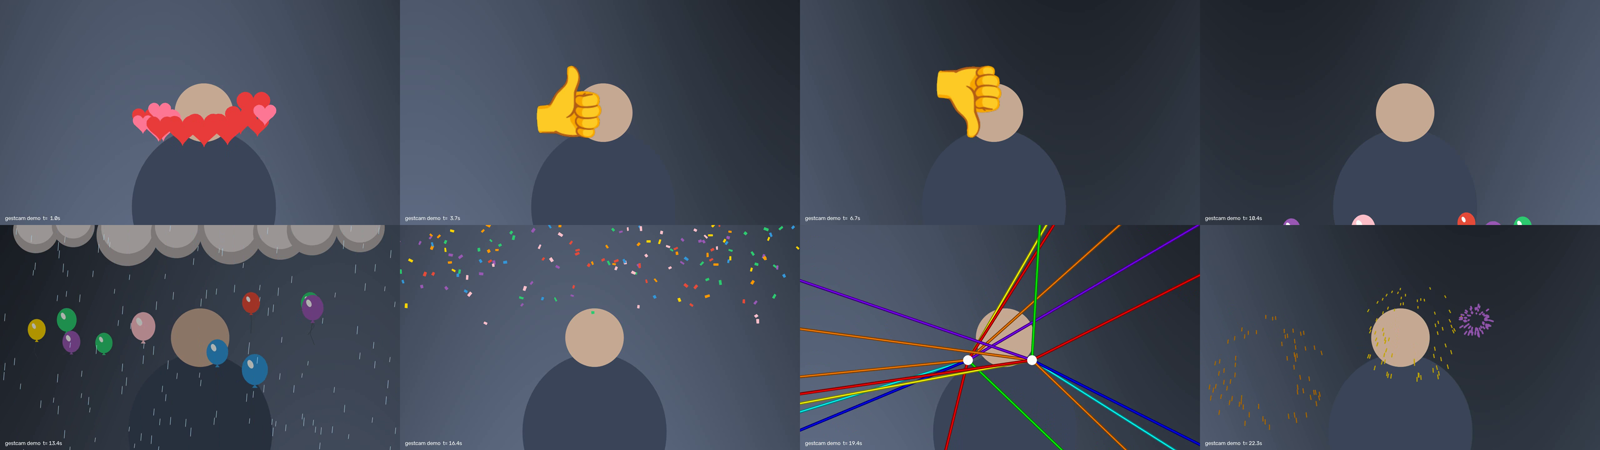
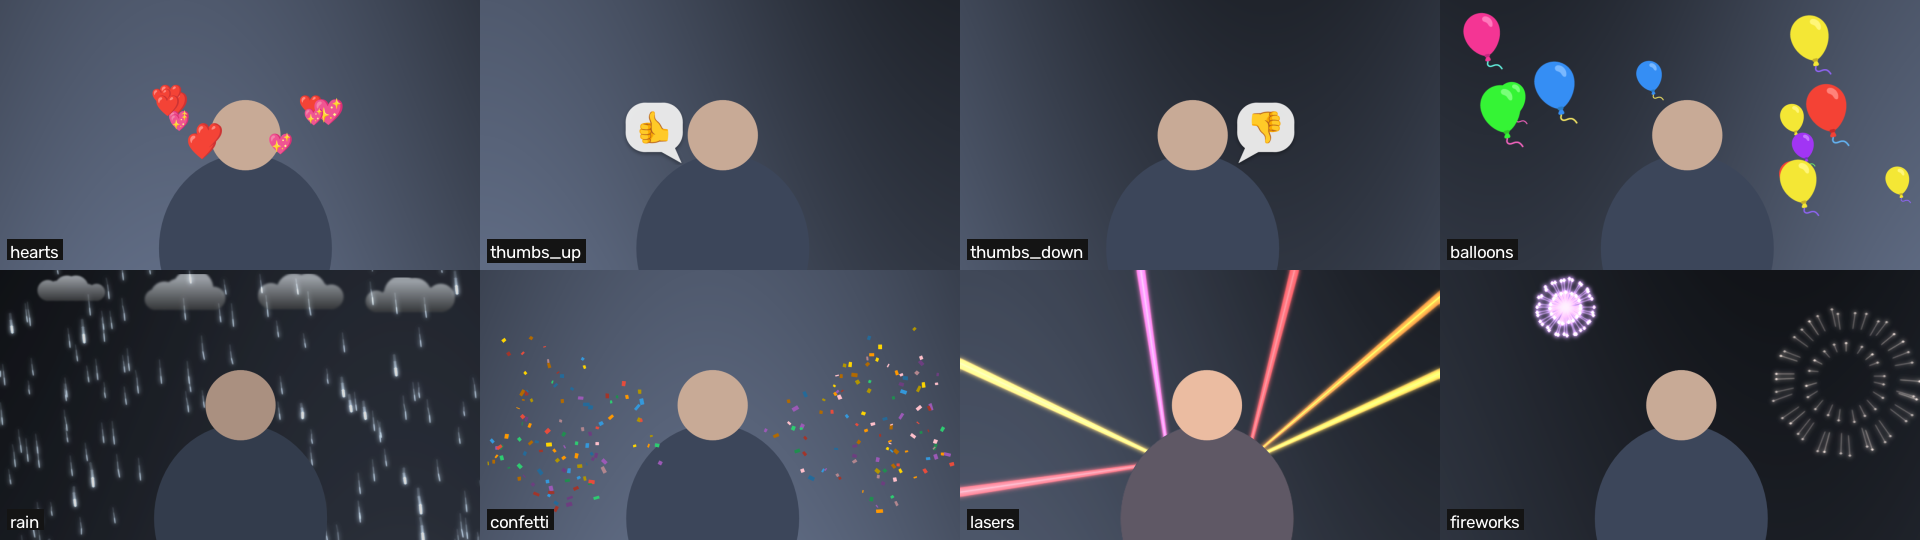
docs: document the rebuild, Discord.dmg finding and new commands
Discord's macOS app contains no gesture code: Reactions are applied by
Apple's AVFoundation camera stack for every app, and Chromium only logs
whether they are enabled. The README/PLAN now record that, the Apple
behaviour we match, the new commands, and a regenerated reactions sheet.

diff --git a/PLAN.md b/PLAN.md
@@ -9,14 +9,14 @@ On macOS, "Reactions" are not a Discord feature. They're an OS-level camera effe
 ```
 webcam ──V4L2 (MJPG)──▶ Capture thread ──newest frame──▶ main loop ──▶ v4l2loopback (/dev/video10, I420)
                                                             │   ▲                      │
-                                          rgb@640w ──▶ MediaPipe thread (LIVE_STREAM)  │
-                                                            │                          ▼
-                                          Observation ──▶ reaction_for() ──▶ ReactionState ──▶ EffectEngine
+                                          rgb@640w ──▶ MediaPipe threads (LIVE_STREAM) │
+                                                       gestures + person mask          ▼
+                     new Observation ──▶ decide(): pick() ──▶ ReactionState ──▶ EffectEngine (back | person | front)
                                                                                                    │
                                                                               Discord / Chromium / OBS / Zoom
 ```
 
-Modules: `streams.py` (capture + sinks) · `recognizer.py` (MediaPipe wrapper + pure gesture rules) · `state.py` (hold/cooldown) · `effects.py` (particles) · `pipeline.py` (loop, demo) · `doctor.py` (preflight) · `cli.py`.
+Modules: `streams.py` (capture + sinks) · `recognizer.py` (MediaPipe wrapper + pure gesture rules) · `segment.py` (person mask) · `state.py` (hold/cooldown) · `effects.py` (layered particles) · `pipeline.py` (loop, eval, demo) · `doctor.py` (preflight) · `cli.py`.
 
 ## Decisions and why
 
@@ -29,7 +29,12 @@ Modules: `streams.py` (capture + sinks) · `recognizer.py` (MediaPipe wrapper + 
 | **LIVE_STREAM mode, newest-result-wins** | Model latency never blocks the frame loop. If inference falls behind, output stays 30 fps and reactions lag ~50 ms, which nobody notices. |
 | **Inference at 640 px wide** | Hand landmarker resizes to 224 internally; feeding 1280 just costs a bigger copy. Landmarks are normalized, so effects still render at full resolution. |
 | **Time-based hold (0.7 s) + cooldown (2.5 s) + release-to-repeat** | Same feel as Apple's "hold and pause". Frame-count debouncing breaks the moment fps changes. |
-| **Opaque OpenCV primitives, ROI alpha only for sprites** | Full-frame float alpha blend ≈ 10–15 ms at 720p. Measured: all 8 effects at once ≈ 10 ms on a 2.1 GHz Xeon; any single effect ≤ 2 ms. |
+| ~~**Opaque OpenCV primitives, ROI alpha only for sprites**~~ → **layered compositing in uint8 cv2** | **Superseded.** The ban was right about numpy float (mask blend 18.9 ms at 720p) and wrong about native uint8 cv2: `addWeighted` 0.5 ms, `blendLinear` mask composite ~2.3 ms in a real frame, half-res blurred glow 0.8–1.8 ms. So effects now have back / front / light passes: back is drawn on a copy and blended *under* the person, front over them, and fades are alpha, never darkening to black. `step()` cost with a mask, mean/p95: single effects 0.4–5.3 / ≤6.1 ms, all 8 at once 8.4 / 10.7 ms (idle machine; command and load not recorded). Under load ~9–15 on 16 cores, `scratchpad/build_effects/perf.py` measured masked step() means of 17–25 ms for single effects and 36.2 / 49.4 ms mean/p95 for all 8, against 4–10 ms unmasked. That is why the segmentation auto-off also watches the loop time of masked frames. |
+| **Per-hand pose = canned label fused with landmark geometry** | The canned top-1 label missed 4 of 6 clear ✌ (None:.96 on a textbook V), and MediaPipe 0.10 returns no runner-up. Geometry (V, horns, thumb tip as the hand's extreme point) votes unless the model is ≥0.7 sure of a *different* named class; horns and heart geometry outrank labels (the model has neither class and called horns "Victory", hearts "Thumb_Down"). 22 Commons photos: 4/20 → 11/20 in IMAGE mode, 0 wrong-reaction fires; landmarks are pinned as `tests/fixtures/photo_hands.json`. |
+| **Pairing by landmark distance + handedness, not a wrist floor** | "Wrists > 1 palm apart" rejected real thumbs held together and still let a duplicate box through. Now: mean distance over all 21 landmarks < 0.3 palm = the same hand twice; Left+Left / Right+Right rejected only when both handedness scores ≥ 0.8 (`--mirror` flips both, so "they differ" survives it); every pair tried closest-first so a third hand can't hide one. Palms > 6 apart don't pair. `ponytail:` one person's spread arms (4.5 palms) and two people side by side (4.4) overlap, so distance can't split people. |
+| **Per-reaction hold accumulators, fed once per observation** | Replaced an incumbent/challenger rule that double-fired 👍 then 👍👍 (thumbs_up, then fireworks 2.5 s later) and let a 50/50 thumbs_up/fireworks flicker always resolve to thumbs_up. Each reaction accrues dt while seen, freezes for `grace_s`, decays at 2·dt. **Promotion**: a seen superset takes max(own, subset's) so fireworks fires 0.7 s after the *first* thumb. **Deferral**: with 2+ hands in frame a subset needs +`defer_s` (0.15 s). **Upgrade**: after a subset fires, its superset may still fire inside the cooldown and the effect engine retires the bubble. Cooldown holds every accumulator at 0, so every fire follows a visible ring. Clocked on `Observation.ts`, once per new observation: per-frame wall-clock feeding made hold length depend on model latency. Fire times identical at 10/30/60 Hz. |
+| **Selfie segmenter for "behind the person"** | Google's `selfie_segmenter.tflite` (Apache-2.0, 250 KB) through the same Tasks API, LIVE_STREAM on its own thread, fed the same 640 px RGB as the gesture model. 4.7–5.4 ms p50 alone; both models together keep gesture p95 under 33 ms (it costs the gesture model ~1.5 ms of p95). The mask is dilated 1.2% of height (one frame of lag) and smoothed asymmetrically: growth immediate, shrink EMA, so an effect is never painted over a pixel the person just moved into. Auto-off for the session if either model's p95, or the loop p95 of masked frames, is > 33 ms for two 5 s windows. Runs only while a hold or effect is up (the only mask readers): idle, it cost ~0.5 core. |
+| **No Apple code to port: Reactions live in AVFoundation, not the app** | Discord 0.0.419 (Discord.dmg) contains no gesture code. Its Chromium only *logs* `AVCaptureDevice.reactionEffectsEnabled` / `reactionEffectGesturesEnabled` (`media/capture/video/mac/video_capture_metrics_mac.mm`). The recognition and effects are Apple's, closed, inside the camera stack; gestcam copies the public behaviour (support.apple.com/105117, WWDC23 10105), not code or assets. |
 | ~~**mediapipe ≥ 1.0**~~ → **mediapipe < 1.0**, pinned | **Superseded.** 1.0.1 SIGKILLs the process on its first inference on this machine — reproduced with no camera, no virtual camera and no gestcam code, on a single static frame, in all three running modes. Not OOM (peak RSS 251 MB, 12 GB free, no cgroup limit), no coredump, no seccomp/audit trace, `RLIMIT_RTTIME` already unlimited. 0.10.x runs the same model fine. The ABI-agnostic wheel was only insurance against a bleeding-edge interpreter, which `uv python pin 3.12` retires. |
 | **Two loopback devices, not one** | One v4l2loopback device serves exactly **one streaming consumer**: `VIDIOC_REQBUFS` returns `-EBUSY` to the second capture client, while `max_openers=10` gates only `open()` — so the second app opens the device and then shows black. Measured both ways round (native Discord holding it, then Brave holding it). `video_nr`/`card_label`/`exclusive_caps` are per-device arrays, so all three must be comma lists or the second device comes up invisible to Chromium. |
 | **`uv` + `pyproject.toml`** | Isolated from system Python; `uv python pin 3.12` is the escape hatch if a wheel is missing for a bleeding-edge interpreter. |
@@ -64,7 +69,7 @@ Not risks: Hyprland/Wayland itself (V4L2 doesn't go through the compositor); mir
 ## Data to collect on the first run
 
 1. `uv run gestcam doctor --json > doctor.json`
-2. `uv run gestcam run --record first.mp4` for ~1 min: do each gesture twice, talk with your hands for 20 s (false-positive test). Note the `[gestcam] out … fps | infer p50/p95` lines.
+2. `uv run gestcam run --record-raw first.mp4` for ~2 min: each gesture twice, two-hand ones one hand at a time, and 20 s of talking with your hands (false-positive test). Then `uv run gestcam eval first.mp4`. Note the `[gestcam] out … fps | infer … | seg …` lines.
 3. Whether Discord lists **GestCam** with gestcam running, and what `v4l2-ctl -d /dev/video10 --list-formats-ext` says while it runs.
 4. `wpctl status | sed -n '/Video/,$p'` — does the loopback show up as a PipeWire node?
 
@@ -87,3 +92,12 @@ Not risks: Hyprland/Wayland itself (V4L2 doesn't go through the compositor); mir
   apart, so at most two overlap: measured worst case 12.5 ms.
 - Seven classifier bugs found and fixed by reproduction, the largest being that a held
   gesture could fire **never** under label flicker (10 s of holding, zero triggers).
+- The full loop (gesture model + segmenter + all 8 effects in rotation + compositing +
+  I420 conversion) on a 1280x720 file in place of the webcam: **30 fps** out, loop p50/p95
+  10.8/14.2 ms with the mask (5.1/7.9 without), gesture infer 16.9/23.9 ms, segmenter
+  7.9/10.8 ms. The live loop and `gestcam eval` fired the identical 4 reactions at the
+  same clip times, which is the check that both share one decision path.
+- `gestcam eval` on the 22 photos as 1.2 s stills (VIDEO mode, tracking on): 11 fire,
+  10 correct + 1 one-hand subset, 0 wrong. One photo the single-frame run got
+  (td_videocall) is lost once the tracker re-crops: frame 0 reads thumb_down, frame 1
+  Closed_Fist. Live tracking can cut both ways; only a real recording will say which.
